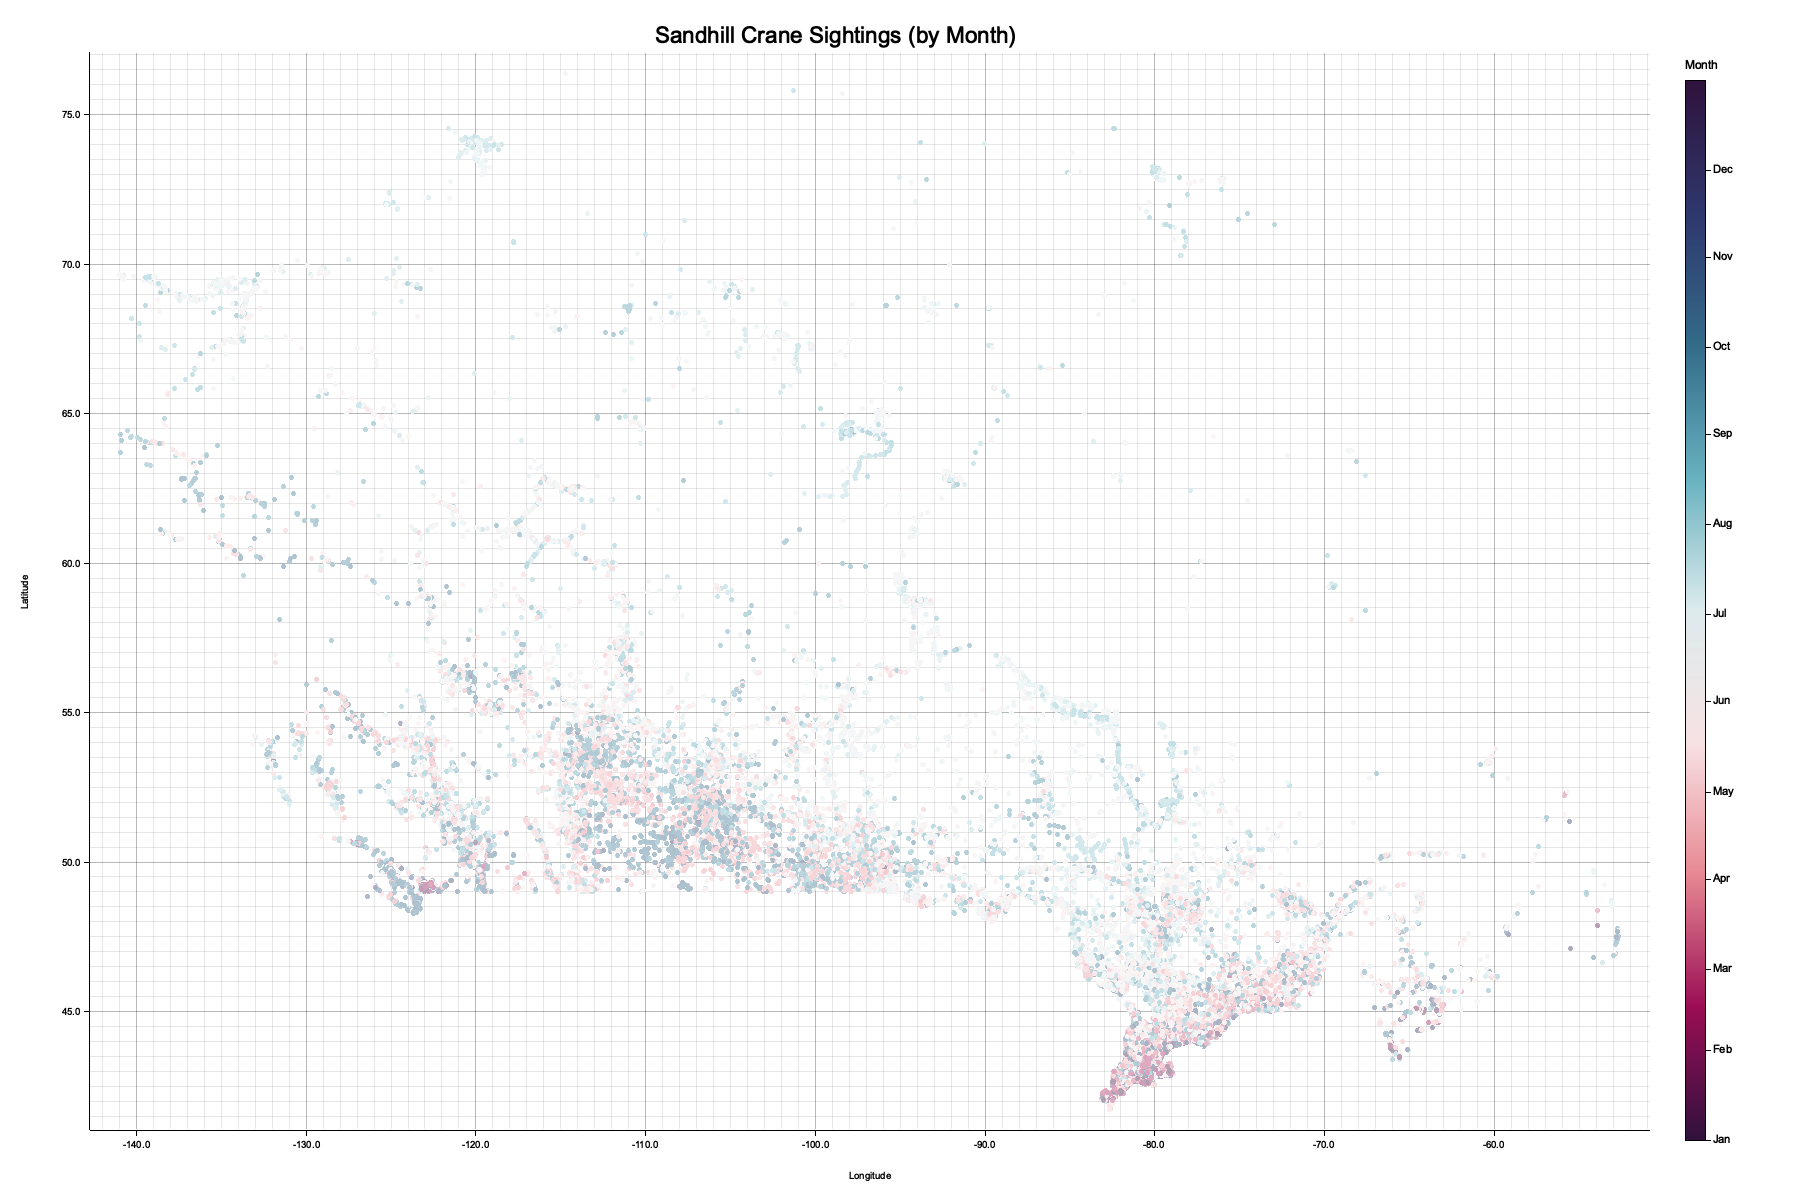
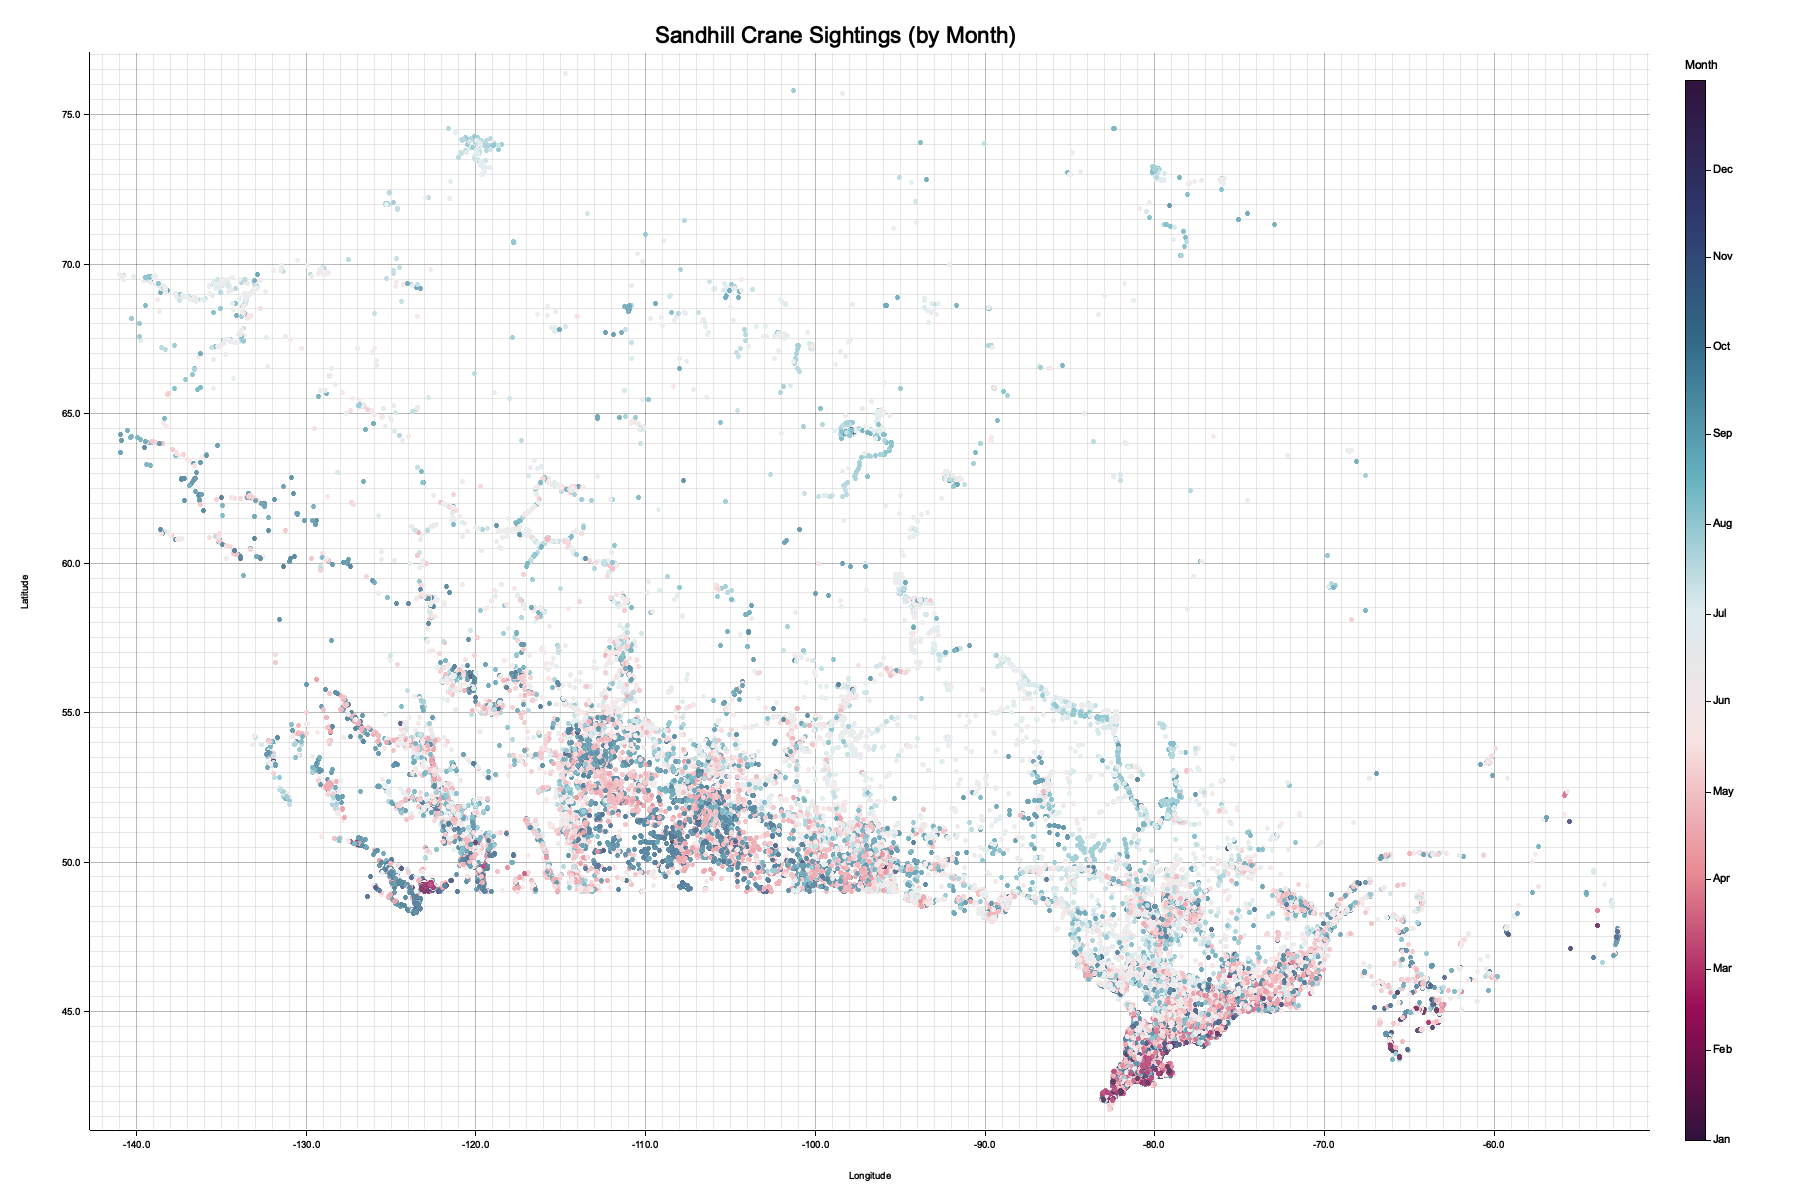
docs: update README for Rust, increase plot opacity
- Update README requirements/setup/usage from Python to Rust
- Increase scatter plot dot opacity from 0.4 to 0.8
- Regenerate sightings scatter plot figure

diff --git a/src/main.rs b/src/main.rs
@@ -132,7 +132,7 @@ fn main() -> Result<(), Box<dyn Error>> {
 
     chart.draw_series(points.iter().map(|&(lon, lat, doy)| {
         let t = (doy as f64 - 1.0) / 365.0;
-        let color = blend_white(twilight_shifted(t), 0.4);
+        let color = blend_white(twilight_shifted(t), 0.8);
         Circle::new((lon, lat), 2, color.filled())
     }))?;
 

diff --git a/README.md b/README.md
@@ -33,23 +33,21 @@ Supporting reference files are included in `data/`:
 
 ## Requirements
 
-- Python 3.12+
-- pandas
-- numpy
+- [Rust](https://www.rust-lang.org/tools/install) (2021 edition)
 
 ## Setup
 
 ```bash
-python -m venv .venv
-source .venv/bin/activate
-pip install pandas numpy
+cargo build
 ```
 
 ## Usage
 
 ```bash
-python data.py
+cargo run
 ```
+
+This parses the eBird TSV, prints date/latitude/longitude ranges, and saves a scatter plot colored by month to `figures/sightings_scatter.png`.
 
 ## Data Terms of Use
 
